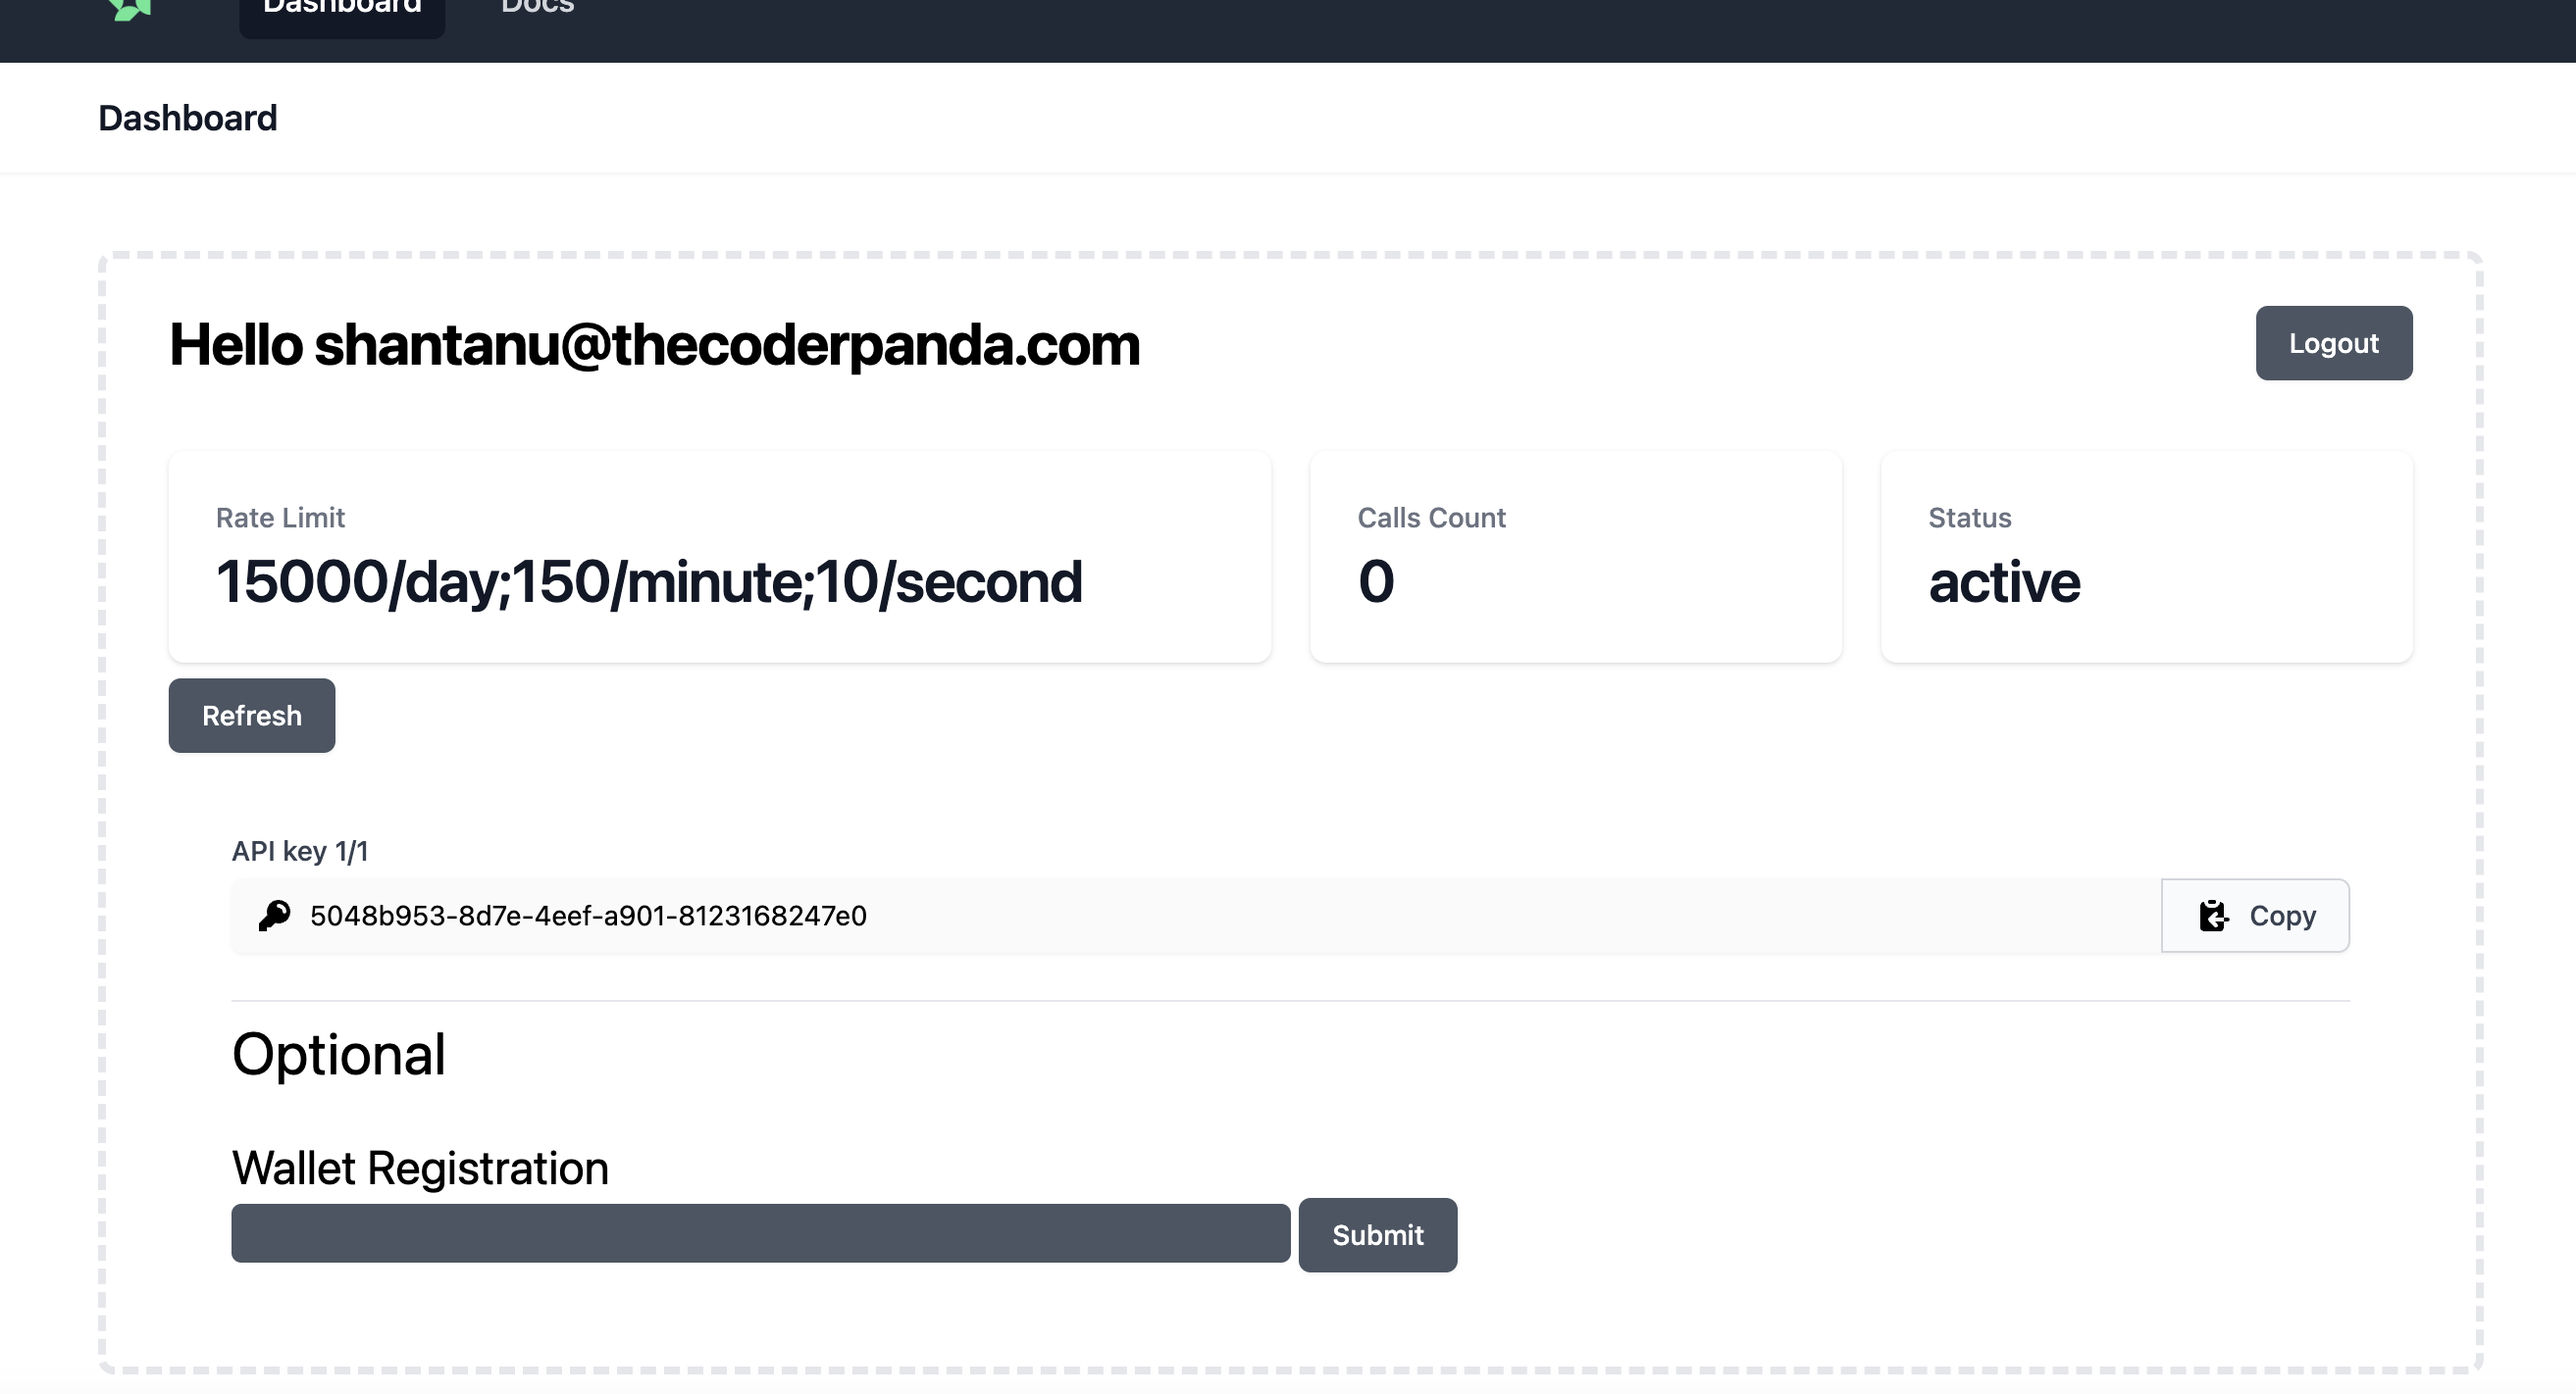
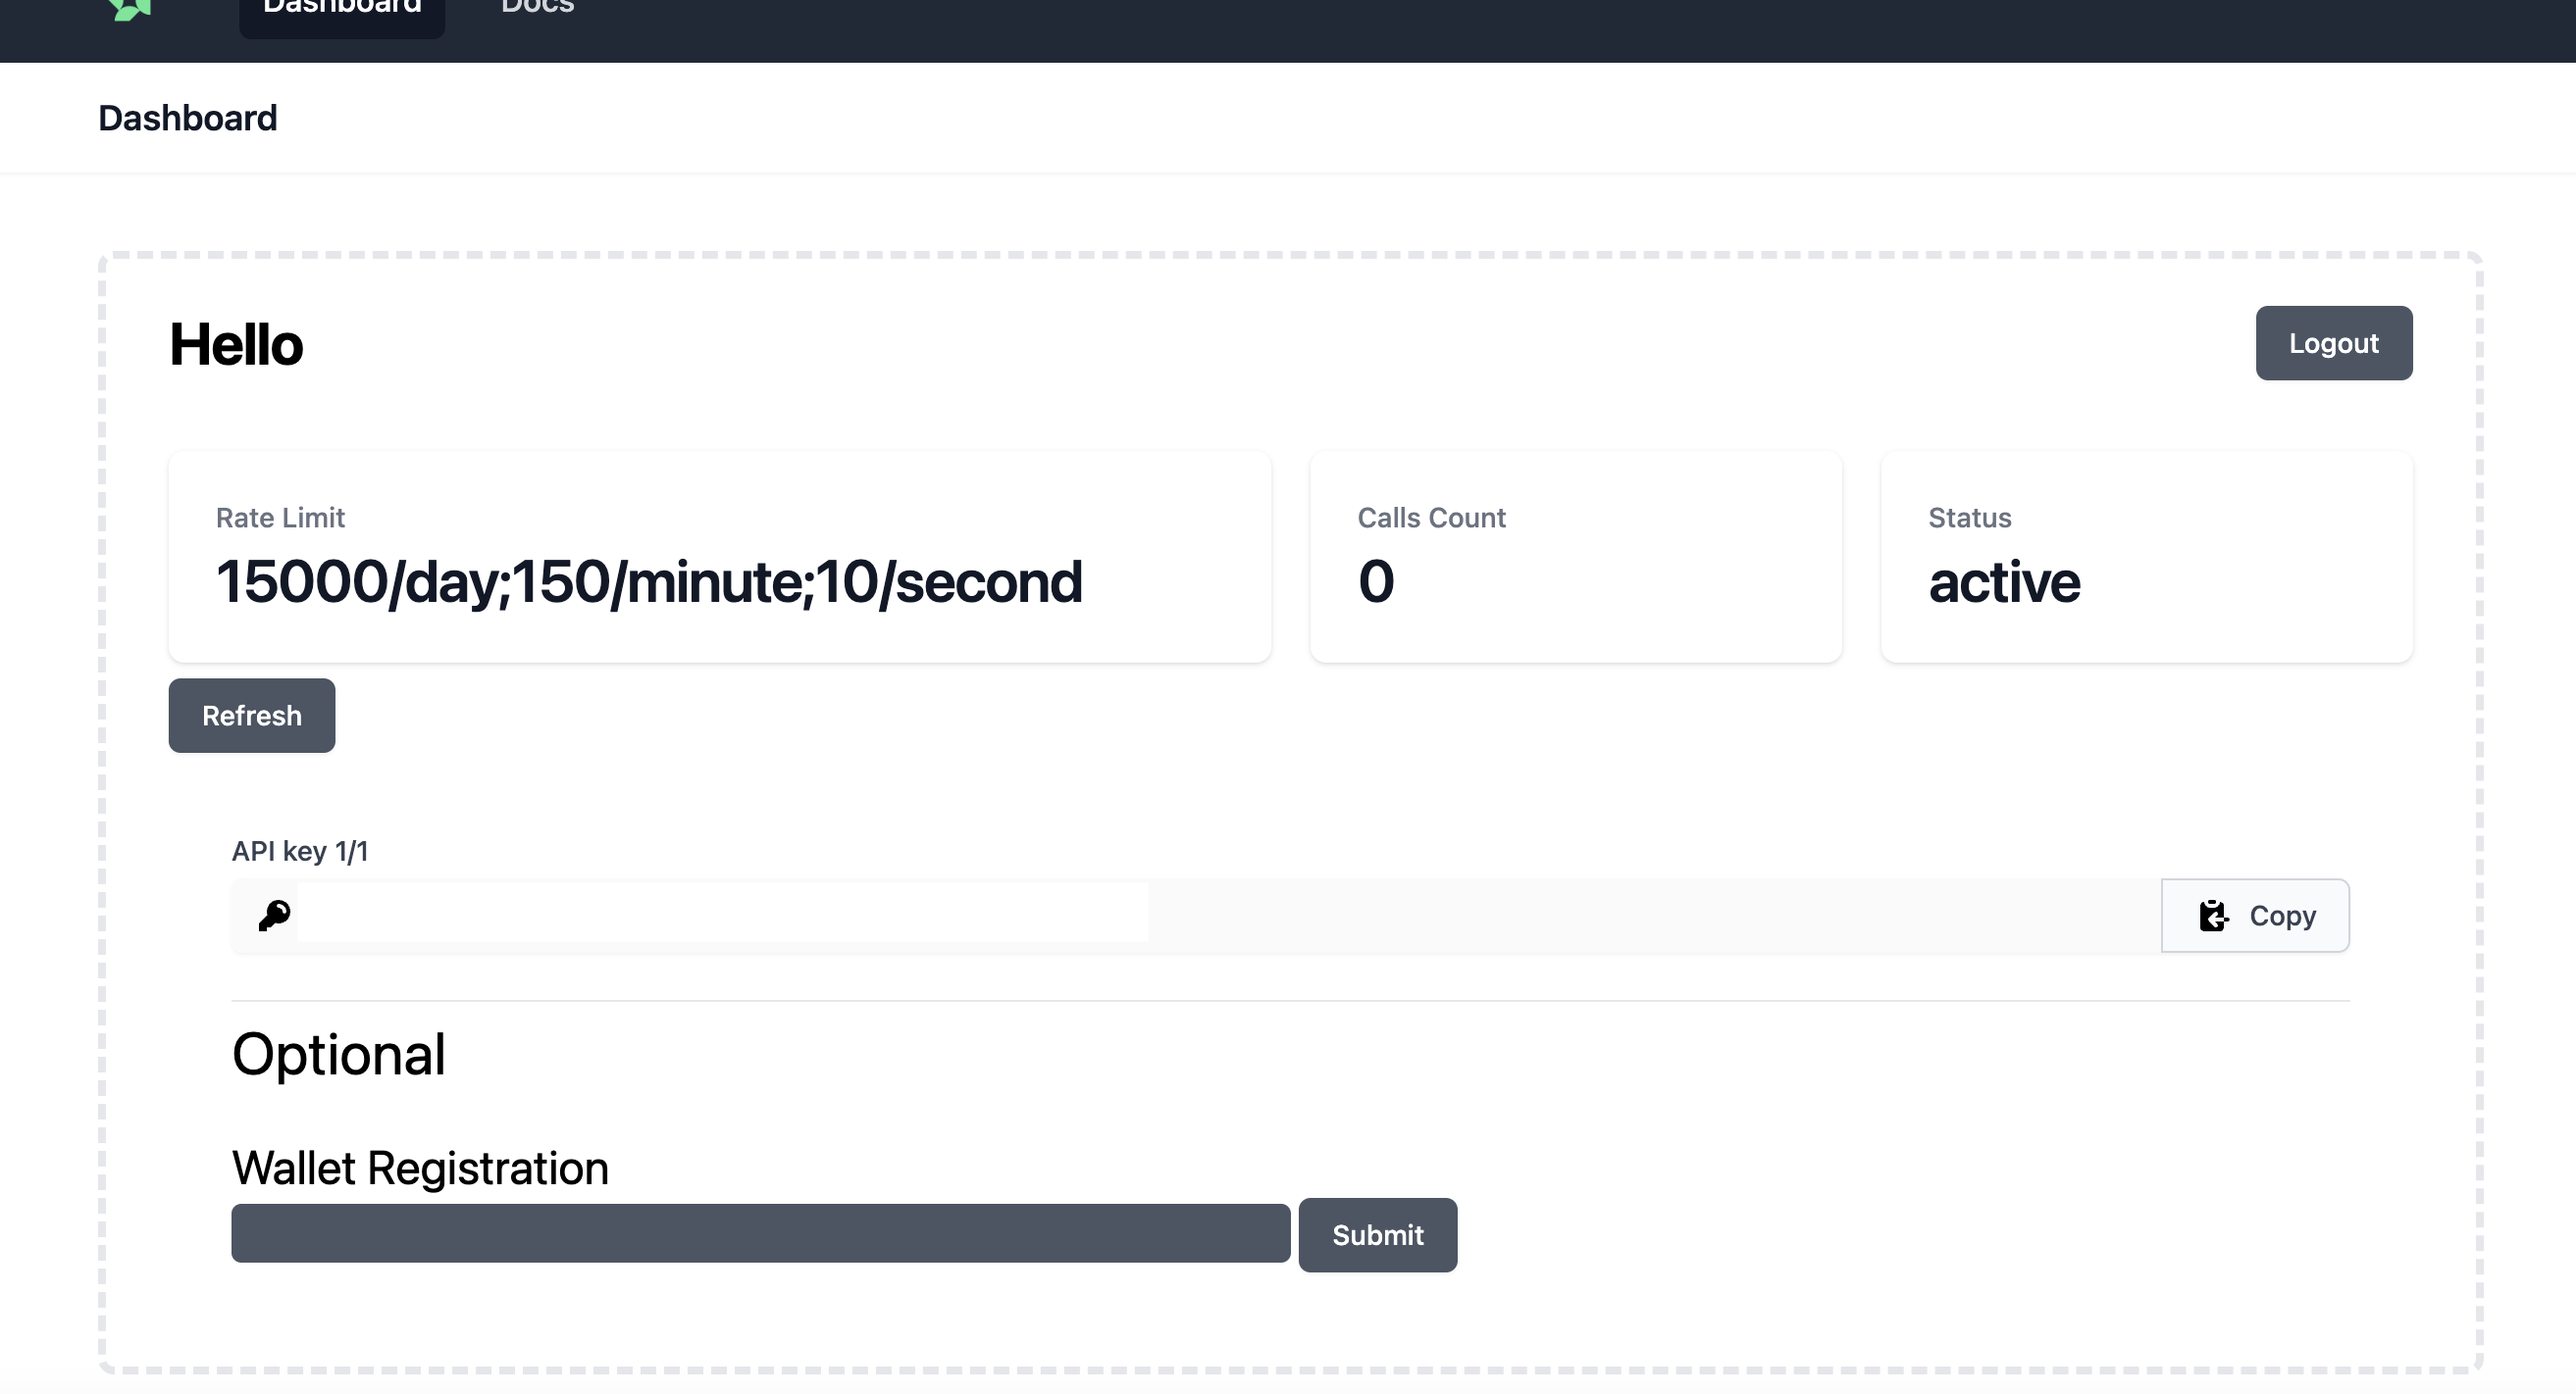
added API section

Changed region(s): [[0.1249, 0.2166, 0.4372, 0.2785], [0.1249, 0.6498, 0.3435, 0.6807]]

diff --git a/docs/build-with-powerloom/use-cases/building-new-usecase/getting-started-with-ethindia.md b/docs/build-with-powerloom/use-cases/building-new-usecase/getting-started-with-ethindia.md
@@ -7,7 +7,7 @@ sidebar_position: 0
 
 If you are building at [ETH India 2023](https://ethindia.co), we have a dedicated dashboard to get you started. 
 
-[Eth India 2023 Dashboard](https://ethindia2023.powerloom.io)
+[Eth India 2023 Dashboard](https://ethindia23.powerloom.io)
 
 ![Dashboard-image](../../../../static/images/dashboard1.png)
 
@@ -19,4 +19,8 @@ If your wallet is not added in 10-15 mins, you can reach us out on [Discord](htt
 
 ## API key: 
 
-You'll also have an API Key to access our API in your application. You can access the APIs documentation [here](https://docs.powerloom.io/docs/category/snapshotter-core-api).
+If you are planning to use APIs to access on-chain data. You can access the APIs documentation [here](https://docs.powerloom.io/docs/category/snapshotter-core-api).
+
+![API-key](../../../../static/images/APIkey.png)
+
+When you register on the dashboard, The API key is auto-generated and you use that to Authenticate and increase the rate-limit of the API calls. 
